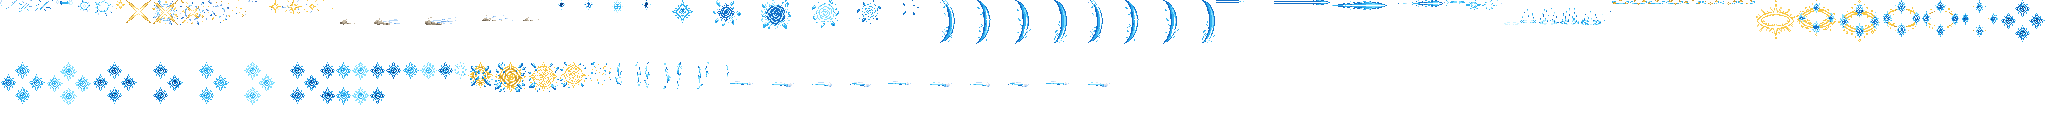
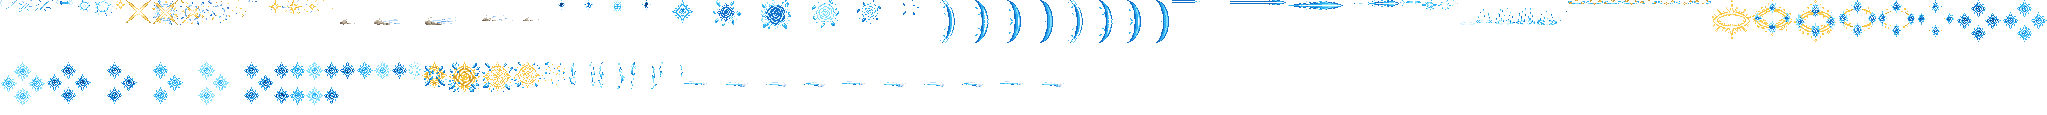
Fiora: the parry crescent turns to the cast, in line with the stab
As a caster picture the crescent only faced left or right, so a downward W
put it beside her while the stab went down (the user: "剑姬格挡还会歪？",
picked "跟着出招方向转"). It now rides a TargetProjectile cast at W's
target (league_lucian Q's way: it points from her pivot at the target and
y_offset -4000 lifts only its picture 9 px): speed 100, drawn 17 px ahead
along its flight, mirrored top to bottom (a leftward cast turns it 180
degrees), each 6-tick frame stepped back by the distance crept, an empty
frame after the 45-tick parry while it crawls on (4-9 s in a logged game,
gone at once if the target dies). champion-data notes the way.

diff --git a/tools/art/import_fiora.py b/tools/art/import_fiora.py
@@ -28,10 +28,10 @@ dust and the speed lines on their lowest row over all frames, across at their pu
 The second step places every cell by its anchor on the unit and times it by the kit (60 ticks a second): a hit on the
 chest, the vital beside it, the stun over the crown, R's crests round the waist, the ground pieces on the soles'
 row; the vital mark and R's crests in 20-tick pieces (the kit replays them every 20 ticks while they last), the
-challenge over the 22 ticks before the first of them, the parry over its 45 ticks (a caster picture played once:
-the loop twice), the speed lines over the burst's strong half (45 ticks, a caster picture too), the thrust inside
-its line's 11 ticks, the stun over its 1 s, the victory zone over its 3 s (opening 1-2, the loop 3-6 six times,
-fading 7-8). Writes league/effects/league_fiora_fx and league_fiora_big (r_zone).
+challenge over the 22 ticks before the first of them, the parry over its 45 ticks (the loop twice, played once on a
+projectile turned to the target), the speed lines over the burst's strong half (45 ticks, a caster picture), the
+thrust inside its line's 11 ticks, the stun over its 1 s, the victory zone over its 3 s (opening 1-2, the loop 3-6
+six times, fading 7-8). Writes league/effects/league_fiora_fx and league_fiora_big (r_zone).
 """
 import argparse
 import json
@@ -60,7 +60,11 @@ OVERHEAD = (0, -29)                    # over a 35-40 px hero's crown
 GROUND = (0, 10)                       # the middle of a ring round a unit's feet (the soles 11 px under its pivot)
 FEET = (0, 12)                         # the lowest row of dust at a unit's feet
 MIDDLE = (0, -9)                       # the middle of Fiora (40 px, the crown 29 px over her pivot)
-PARRY = (17, -9)                       # the parry crescent's right edge, in front of her
+PARRY = (17, -9)                       # the parry crescent's right edge, in front of her (the showcase's spot)
+GUARD_CREEP = 0.1                      # px a tick: the projectile carrying the turned crescent creeps at speed 100
+# the turned crescent's right edge 17 px ahead of its projectile (lifted 9 px by y_offset -4000), each 6-tick frame
+# stepped back by the distance the projectile has crept by its middle, so the crescent stands still
+GUARD = [(17 - round(GUARD_CREEP * (6 * k + 3)), 0) for k in range(8)]
 HEEL = (-1, 12)                        # the speed lines' puff at her heels
 # the pack's colours (PROMPTS_FX.md)
 STEEL = ["FFFFFF", "E6E8F0", "B8D8F8", "6FA8E8", "3A6FC0"]
@@ -290,7 +294,8 @@ PIECE = [83, 83, 83, 84]                  # a 20-tick piece (the kit replays the
 ZONE = [0, 1] + [2, 3, 4, 5] * 6 + [6, 7]
 ZONE_MS = [100, 100] + [100] * 24 + [200, 200]
 
-# sprite: {tag: [(strip, its frames used, spot of the anchor from the pivot, ms per frame), ...]}
+# sprite: {tag: [(strip, its frames used (None: an empty frame), spot of the anchor from the pivot (one, or one a
+# frame), ms per frame[, "mirror": the top half mirrored onto the bottom first]), ...]}
 FX = {
     "league_fiora_fx": {
         "hit": [("hit", range(5), HIT, [50] * 5)],
@@ -300,7 +305,9 @@ FX = {
         "q_dash": [("q_dash", range(5), FEET, [70] * 5)],
         "vital_mark": [("vital_mark", range(4), VITAL, PIECE)],
         "vital_hit": [("vital_hit", range(6), VITAL, [60] * 6)],
-        "w_parry": [("w_parry", [0, 1, 2, 3] * 2, PARRY, [100] * 7 + [50])],
+        # the parry crescent on W's TargetProjectile, turned to the target (the game turns a projectile's picture, upside
+        # down when she casts left: mirrored top to bottom); 45 ticks, then nothing until the projectile arrives
+        "w_guard": [("w_parry", [0, 1, 2, 3] * 2 + [None], GUARD + [(0, 0)], [100] * 7 + [50, 8000], "mirror")],
         "w_line": [("w_line", range(4), (0, 0), [33, 50, 50, 50])],
         "w_hit": [("w_hit", range(5), HIT, [50] * 5)],
         "w_slow": [("w_slow", range(6), GROUND, [80] * 6)],
@@ -328,10 +335,18 @@ def build():
         out = {}
         for tag, parts in tags.items():
             out[tag] = []
-            for src, used, (sx, sy), ms in parts:
+            for part in parts:
+                src, used, spot, ms = part[:4]
+                flip = len(part) > 4 and part[4] == "mirror"
                 ax, ay = anchors[src]["anchor"]
                 strip = cells(src, anchors[src]["frames"])
-                out[tag] += [(G.centre_frame(strip[k], sx - ax, sy - ay), m) for k, m in zip(used, ms)]
+                spots = spot if isinstance(spot, list) else [spot] * len(used)
+                for k, m, (sx, sy) in zip(used, ms, spots):
+                    if k is None:
+                        out[tag].append((np.zeros((1, 1, 4), np.uint8), m))
+                        continue
+                    cell = mirror(strip[k], ay) if flip else strip[k]
+                    out[tag].append((G.centre_frame(cell, sx - ax, sy - ay), m))
         sheets[sprite] = out
     return sheets
 

diff --git a/tools/art/preview_fiora.py b/tools/art/preview_fiora.py
@@ -89,11 +89,6 @@ def showcase(out, z=3, step=40):
     def on_foe(name, at, z=3):
         over.append(OnFoe(frames_of(small, name), at, d, z=z))
 
-    def on_her(name, at, until, z=1):
-        an = Follow(frames_of(small, name), at, x, gy, loop=True, until=until, on=body, z=z)
-        (over if z > 0 else under).append(an)
-        return an
-
     def vital(at, until):
         """A revealed Vital: its picture in V_LINK pieces from the reveal's first link until it is struck."""
         over.append(OnFoeFor(frames_of(small, "vital_mark"), at + tick(2), d, until, z=3))
@@ -139,7 +134,9 @@ def showcase(out, z=3, step=40):
     attack()
     # Riposte: the parry, Darius's swing into it, the stab on tick 47 down the line (its middle 27.5 px ahead)
     start = t
-    on_her("w_parry", start, start + tick(W_PARRY), z=2)
+    # the crescent rides W's projectile: 9 px over her pivot, creeping 0.1 px a tick at Darius (its frames step back)
+    over.append(Anim(frames_of(small, "w_guard"), start + tick(2), x, gy - 9, until=start + tick(2 + W_PARRY), z=2,
+                     x1=x + 0.1 * W_PARRY))
     d.attacks.append(start + tick(12))
     a("skill2", tick(W_DUR))
     stab = start + tick(W_STAB)

diff --git a/README.md b/README.md
@@ -66,7 +66,7 @@
 
 ![贾克斯演示：跑进场，Q 跳斩跳到德莱厄斯身上，落地用掉蓄力一击（落地尘土加紫能环）；三次普攻叠无情连打，第三下触发武器大师的被动（金色四角星）；E 反击风暴：灯柱在头顶一转，脚下紫色旋风转 1.5 秒，架势里照常挥击，结束时火环炸开、德莱厄斯眩晕 1 秒；蓄力一击好了再重砸一下；盖伦走到德莱厄斯身后，R 武器大师跳起砸地，裂地冲击波打中两人，之后脚下金色光环，改用反手突刺，每第二下触发被动，德莱厄斯倒下](docs/preview/league_jax_showcase.gif?v=0930jx)
 
-![菲奥娜演示：跑进场，Q 破空斩冲到德莱厄斯身上（出发点留下尘土和风痕），这一刺在他身上亮出一处破绽（蓝色菱形纹章），顺带发动夺命连刺（她身边的蓝白光线）；第一下普攻减速并刺中破绽（蓝色玫瑰碎裂、她脚下的速度线），第二下暴击（金色 X 形闪光），再普攻一下；W 劳伦特心眼刀：身前的月牙剑光招架 0.75 秒，德莱厄斯砍在上面，随后一道剑气刺穿他，因为挡下过伤害，他眩晕 1 秒（头顶的金星），这一刺也亮出了下一处破绽（离上次刺中已过 3 秒）；R 无双挑战：举剑致意，他身边的金环亮出四处破绽，同时发动夺命连刺，两下快攻刺中两处（金色玫瑰碎裂，下一段少一枚），冷却好了的 Q 冲上去刺中第三处；德莱厄斯后撤，她追着跑、刺得慢了，刺中破绽后冷却减半的 Q 一回来就冲上去刺中第四处，他脚下留下胜利之地（金色光圈，冒着绿色和金色的光点），德莱厄斯倒下](docs/preview/league_fiora_showcase.gif?v=1001fi3)
+![菲奥娜演示：跑进场，Q 破空斩冲到德莱厄斯身上（出发点留下尘土和风痕），这一刺在他身上亮出一处破绽（蓝色菱形纹章），顺带发动夺命连刺（她身边的蓝白光线）；第一下普攻减速并刺中破绽（蓝色玫瑰碎裂、她脚下的速度线），第二下暴击（金色 X 形闪光），再普攻一下；W 劳伦特心眼刀：身前的月牙剑光招架 0.75 秒，德莱厄斯砍在上面，随后一道剑气刺穿他，因为挡下过伤害，他眩晕 1 秒（头顶的金星），这一刺也亮出了下一处破绽（离上次刺中已过 3 秒）；R 无双挑战：举剑致意，他身边的金环亮出四处破绽，同时发动夺命连刺，两下快攻刺中两处（金色玫瑰碎裂，下一段少一枚），冷却好了的 Q 冲上去刺中第三处；德莱厄斯后撤，她追着跑、刺得慢了，刺中破绽后冷却减半的 Q 一回来就冲上去刺中第四处，他脚下留下胜利之地（金色光圈，冒着绿色和金色的光点），德莱厄斯倒下](docs/preview/league_fiora_showcase.gif?v=1001fi4)
 
 ## 英雄：盖伦
 
@@ -1337,7 +1337,7 @@ python tools/art/preview_fiora.py
 - 动作参考（`poses.json`）：镜头 yaw 45、pitch 25，不镜像，头 2.3、腿 0.8、头发 0.6，细剑（`Weapon`）放大 2 倍、贴在右手上，高度 40，120×112 的格子。待机 `Fiora_Idle1`，移动 `fiora_runwalk`（8 帧 × 114 ms，平地，头保持待机时的样子），普攻 `fiora_attack1`，暴击 `fiora_crit`，Q `fiora_spell1` 接 `fiora_crit`，W `fiora_spell2_in`（3 帧 × 250 ms 招架）接 `fiora_spell2`（4 帧 × 80 ms 刺出），R 用致意 `fiora_taunt`（50/50/60/70/70 ms，共 18 tick），受击取 `fiora_death` 开头和待机混合，死亡 `fiora_death`。
 - 动作：Codex 按参考帧画了 9 条（每帧贴定稿的头）。移动的第一版 8 帧两条腿一直是同一条在前（用户选"给 Codex 返修走路"），返修包附一张指引图：英雄联盟的原版走路，近侧腿涂橙、远侧腿涂蓝；返修只改髋部以下（第 81–97 行）：第 1–3 帧近侧腿着地在前，第 5–7 帧远侧腿在前，第 3–4、7–8 帧两腿在身下交错。
 - 导入：待机 6 帧用定稿，第 3–5 帧从第 8 行（靴口）往下沉一格呼吸（`BOB`）；按眼睛的青色定头的位置（`EYES`）。Codex 按英雄联盟的站位放各条动作，头大约在站位点上方，而定稿的待机按脚的中间站，差 9 列，待机的站位点右移 9 列（`fiora_cells.json`）。描边补齐（`COMPLETE`）时，深青的腿（亮度约 58）和酒红的披风（约 44）不算描边，默认的阈值 70 会让 Q 的几帧只有 83–89% 的边是黑的，所以剑姬的阈值设为 40（`DARK`），补齐后 98–100%（细剑那一格裸线不算）。头像截取点 (1, −39)。待机最高点 −28，按规则不用设 `banpick_center`（锐雯、薇恩、阿卡丽也是 −28），但平举的细剑会伸出选人卡片的右边，设 (0, −11) 让卡片把它裁在画布里（剑尖少一截）。
-- 特效用 Codex 画的 18 张（107 帧），交的是生图原稿（半透明边、颜色没锁色板、蓝色和金色的光外面包着一圈最深色）：`import_fiora.py --raw` 按交付清单切帧，每个游戏像素取它覆盖的原图像素的多数色、有三分之一不透明才画，颜色只吸到这张特效要的色阶（钢色、破绽蓝、金色、治疗绿、尘土），最深的蓝、金色在边上的一格去掉（旁边有两格更亮的撑住形状时）或提亮一级。按技能定大小：命中 16–20 px，暴击 26 px，破绽 14 px 高、刺中 30 px，R 刺中 32 px，招架月牙 44 px 高，W 剑气 56 px 长（直线 55000），减速寒气 20 px 宽，眩晕星 18 px，胜利之地 72 px 宽（半径 35000），夺命连刺的光线格子 36 px 宽（绕着她 40 px 的身体），速度线 26 px，尘土 32 px。W 剑气按白色的芯（第 71 行）上下镜像成严格对称（游戏会把它转到刺的方向）；招架月牙在 4 帧里左右漂了 35 个原图像素，按月牙最右边对齐；减速寒气的圈在第 4、5 帧往上跑，按圈最宽的几行对齐；R 起手的四枚破绽画得比常驻的散开，横向压到 72/84、下移 4 个原图像素，起手画完正好接上常驻的四枚（常驻的第一段因此从第 22 tick 开始）；刺中破绽的蓝色玫瑰缩到 30 px 后花瓣线比一格还细，底色从深蓝提亮一级。招架月牙原来挂在招架 buff 上，buff 的画面不随朝向镜像，她朝左出 W 时月牙跑到身后、和剑对不上（用户：「W格挡会和剑的位置不一致」），改成 W 出手时播的施法者画面（跟着她走、朝左时镜像，4 帧循环两遍共 0.75 秒）；刺中破绽后脚下往后拖的速度线也一样（用户：「速度线也一样改了吧」），每次刺中播 0.75 秒（加速最强的那半段），大招里连着刺中时前后两段会叠一下。时长按技能：破绽和剩下的破绽每段 20 tick（技能每 20 tick 播一段），R 起手 22 tick，W 剑气 11 tick（直线存在的时间），眩晕星 1 秒，胜利之地 3 秒（1–2 帧展开，3–6 帧循环 6 次，7–8 帧散去）。
+- 特效用 Codex 画的 18 张（107 帧），交的是生图原稿（半透明边、颜色没锁色板、蓝色和金色的光外面包着一圈最深色）：`import_fiora.py --raw` 按交付清单切帧，每个游戏像素取它覆盖的原图像素的多数色、有三分之一不透明才画，颜色只吸到这张特效要的色阶（钢色、破绽蓝、金色、治疗绿、尘土），最深的蓝、金色在边上的一格去掉（旁边有两格更亮的撑住形状时）或提亮一级。按技能定大小：命中 16–20 px，暴击 26 px，破绽 14 px 高、刺中 30 px，R 刺中 32 px，招架月牙 44 px 高，W 剑气 56 px 长（直线 55000），减速寒气 20 px 宽，眩晕星 18 px，胜利之地 72 px 宽（半径 35000），夺命连刺的光线格子 36 px 宽（绕着她 40 px 的身体），速度线 26 px，尘土 32 px。W 剑气按白色的芯（第 71 行）上下镜像成严格对称（游戏会把它转到刺的方向）；招架月牙在 4 帧里左右漂了 35 个原图像素，按月牙最右边对齐；减速寒气的圈在第 4、5 帧往上跑，按圈最宽的几行对齐；R 起手的四枚破绽画得比常驻的散开，横向压到 72/84、下移 4 个原图像素，起手画完正好接上常驻的四枚（常驻的第一段因此从第 22 tick 开始）；刺中破绽的蓝色玫瑰缩到 30 px 后花瓣线比一格还细，底色从深蓝提亮一级。招架月牙原来挂在招架 buff 上，buff 的画面不随朝向镜像，她朝左出 W 时月牙跑到身后、和剑对不上（用户：「W格挡会和剑的位置不一致」），先改成 W 出手时播的施法者画面（朝左时镜像），但施法者画面只能朝左或朝右，往下出 W 时月牙立在身侧、和往下的剑气成直角（用户：「剑姬格挡还会歪？」，选了「跟着出招方向转」），最后挂在一个朝目标飞、每 tick 只爬 0.1 px 的投射物上（卢锡安 Q 的做法：从她身体中心指向目标，画面单独抬高 9 px）：月牙转到出招方向，和剑气一条线，上下镜像成对称（往左时整张图转 180°），每帧往回挪抵消投射物爬的距离，0.75 秒后是空帧；刺中破绽后脚下往后拖的速度线也一样（用户：「速度线也一样改了吧」），每次刺中播 0.75 秒（加速最强的那半段），大招里连着刺中时前后两段会叠一下。时长按技能：破绽和剩下的破绽每段 20 tick（技能每 20 tick 播一段），R 起手 22 tick，W 剑气 11 tick（直线存在的时间），眩晕星 1 秒，胜利之地 3 秒（1–2 帧展开，3–6 帧循环 6 次，7–8 帧散去）。
 - 出手时刻和动画对齐：普攻第 3 帧（第 9 tick），Q 在冲到目标身上时刺中（`MoveToTarget` 到达），W 招架 45 tick 后第 47 tick 刺出，R 致意 18 tick。
 
 逐帧预览：[`docs/preview/league_fiora_frames.png`](docs/preview/league_fiora_frames.png)，特效：[`docs/preview/league_fiora_effects.png`](docs/preview/league_fiora_effects.png)。

diff --git a/.claude/skills/tfm2-hero-mod/references/champion-data.md b/.claude/skills/tfm2-hero-mod/references/champion-data.md
@@ -594,9 +594,14 @@ the same champion file.
   A buff's picture (`view_buffs`) is not mirrored that way: league_fiora's parry crescent, drawn 17 px in front
   of her as the parry buff's picture, stood behind her whenever she faced left (the user, 2026-10-01: "W格挡会和
   剑的位置不一致"). A picture with a front and a back goes on a `CasterViewEffect` with `is_follow`, played with
-  the buff, its tag listing the loop for the buff's duration (her crescent: 4 frames twice, 750 ms = 45 ticks; her
-  speed lines trailing behind her: 750 ms per struck Vital, the strong half of the burst). Such a picture cannot be
-  stopped: refreshed before it ends, the next one plays over it.
+  the buff, its tag listing the loop for the buff's duration (her speed lines trailing behind her: 750 ms per struck
+  Vital, the strong half of the burst). Such a picture cannot be stopped: refreshed before it ends, the next one
+  plays over it. It only turns left or right: her crescent as a caster picture stood beside her while her stab went
+  down ("剑姬格挡还会歪？"). A picture that must face the target goes on a `TargetProjectile` cast at it
+  (league_lucian Q's way: it points from the caster's pivot at the target and `y_offset` lifts only its picture):
+  her crescent rides one with `speed` 100 and `y_offset` -4000 (9 px up), drawn 17 px ahead along its flight and
+  mirrored top to bottom, each 6-tick frame stepped back by the distance crept, an empty last frame after the
+  parry's 45 ticks while the projectile crawls on (4-9 s in a logged game; it goes at once if the target dies).
   A thing with a top and a bottom that flies every way (league_thresh's lantern) is laid along its flight
   and mirrored top to bottom, so every turn of it looks the same (art-spec).
 - A projectile's picture has one length, but its frames can follow the flight: an `Animated` view with
